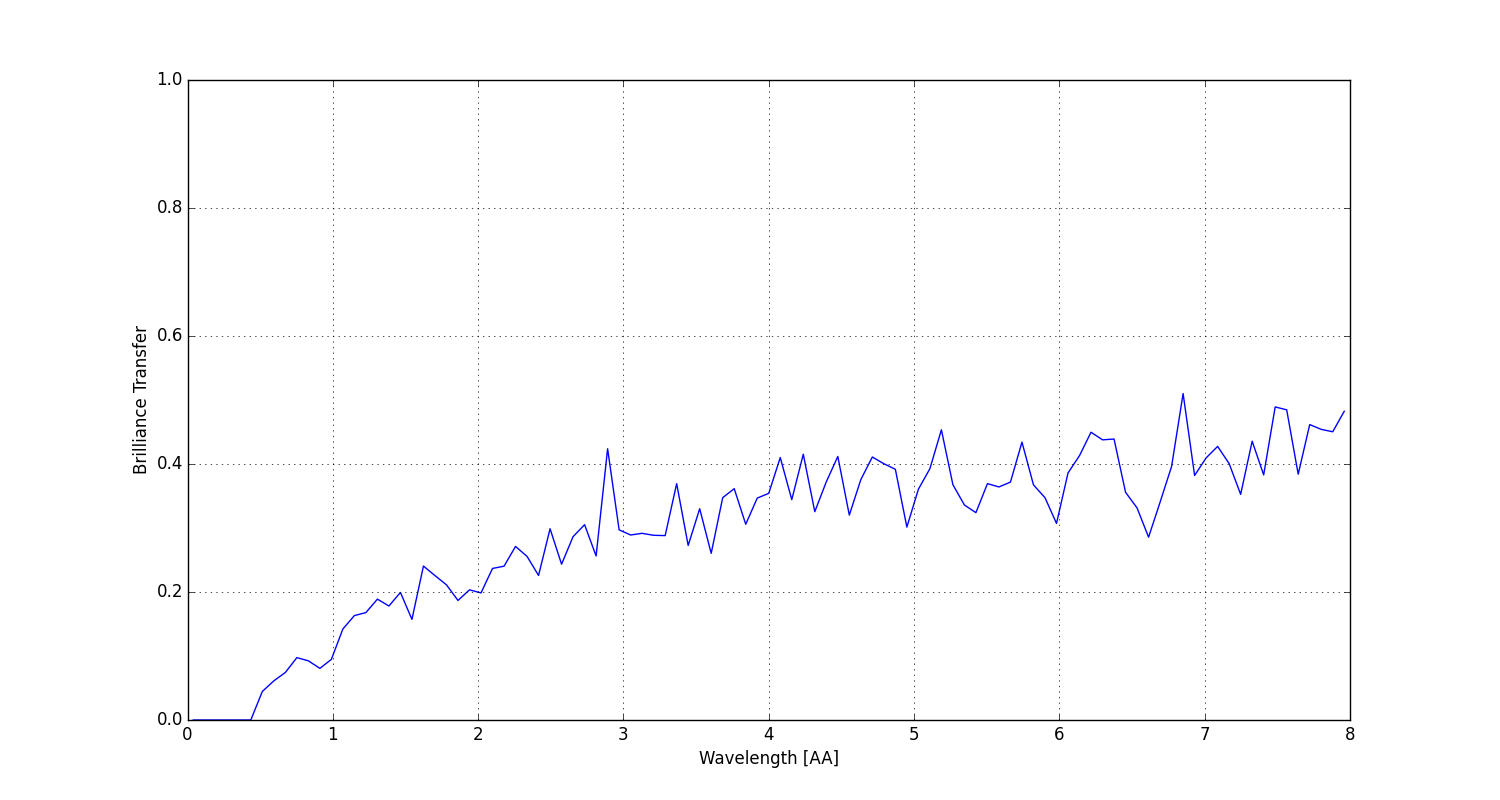
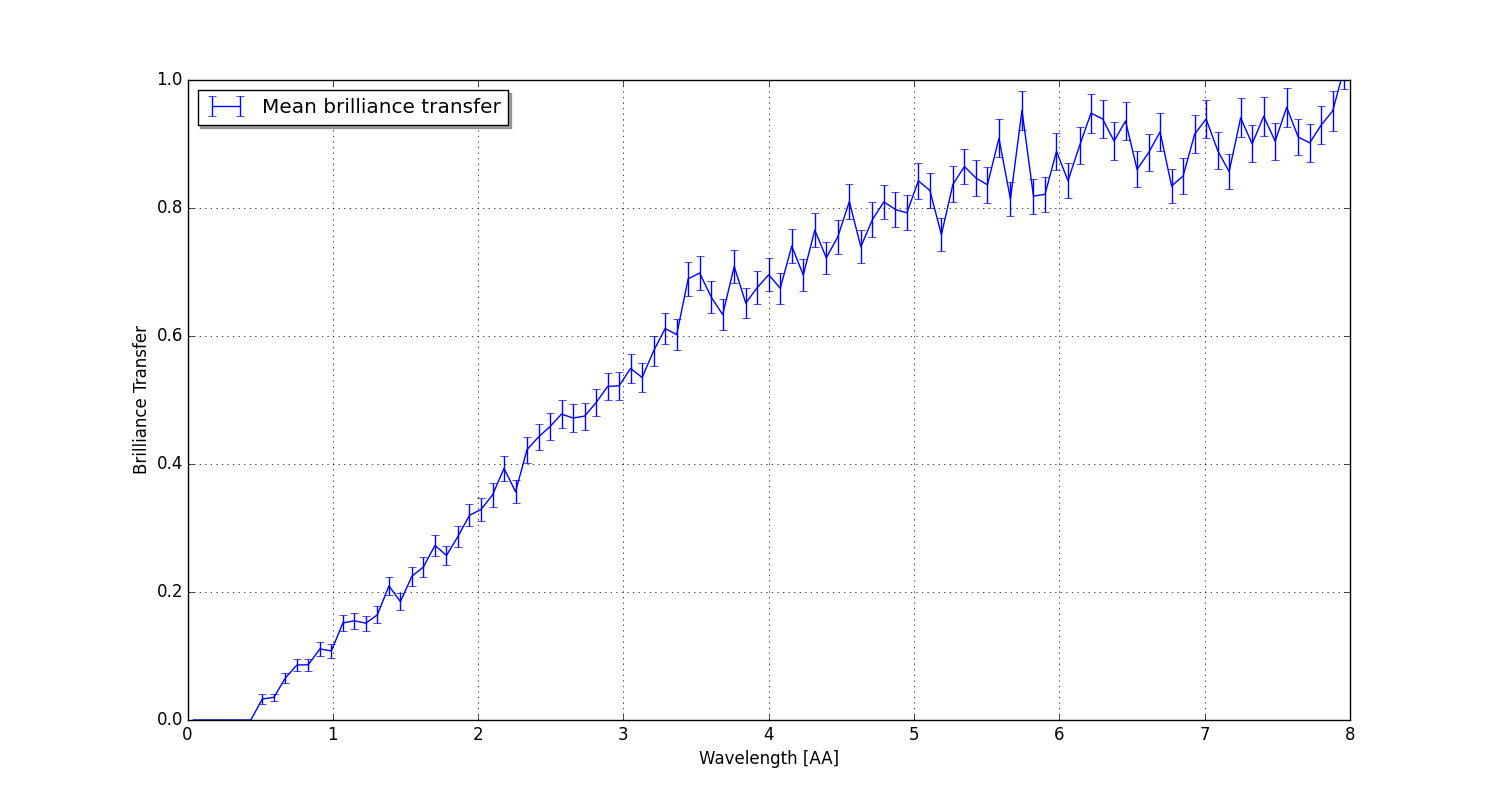
ess_sim_simple

diff --git a/get_BT.py b/get_BT.py
@@ -2,19 +2,32 @@ import matplotlib
 matplotlib.use('pdf')
 import matplotlib.pyplot as plt
 
-from parse_brill import run_mcstas
+import os
+import subprocess
+import time
+import sys
+from mcstas_utils import run_mcstas, compile_mcstas, now
+from simulation_analysis_utils import process_brilliance
+
+
+#from parse_brill import run_mcstas
 
 # params = {u'guide_loutxw': 7.885643934926492, u'guide_mid_height': 0.07004703010787484, u'guide_linxw': 52.318252906787734, u'guide_linyh': 31.176145777453176, u'guide_mid_width': 0.08534642073016357, u'guide_loutyh': 5.29370802141684}
 
 params = {'guide_loutxw': 7.236909136827689, 'guide_mid_height': 0.07242770304915397, 'guide_linxw': 73.11127655966307, 'guide_linyh': 5.924279652618898, 'guide_mid_width': 0.05851273883218753, 'guide_loutyh': 1.9432886941931304}
 
-area, res, res_x, res_y = run_mcstas('ess_sim_simple', params)
+# compile_mcstas('ess_sim_simple')
+# save_dir = run_mcstas('ess_sim_simple', params)
+save_dir = './data/ess_sim_simple_148949435459073'
+res = process_brilliance(save_dir, 'Mean')
+
+print len(res)
 
 # Plot results
 fig, ax = plt.subplots()
 # ax.plot(peak_res_x, peak_res_y, 'r-', label='Peak brilliance transfer')
-ax.plot(res_x, res_y, 'b-', label='Mean brilliance transfer')
-# legend = ax.legend(loc='upper left', shadow=True)
+ax.errorbar(res[2], res[3], yerr=res[4], label='Mean brilliance transfer')
+legend = ax.legend(loc='upper left', shadow=True)
 
 plt.xlabel("Wavelength [AA]")
 plt.ylabel("Brilliance Transfer")
